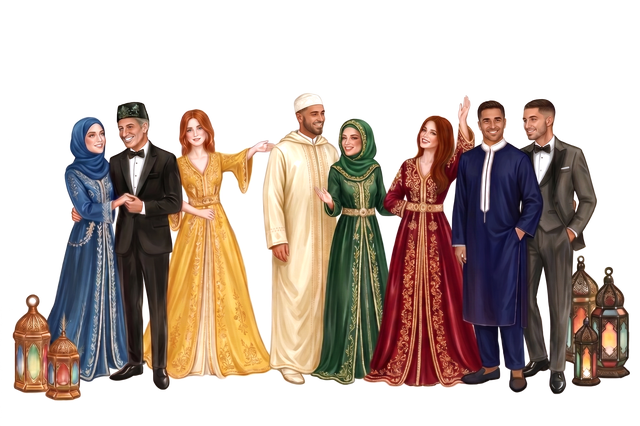
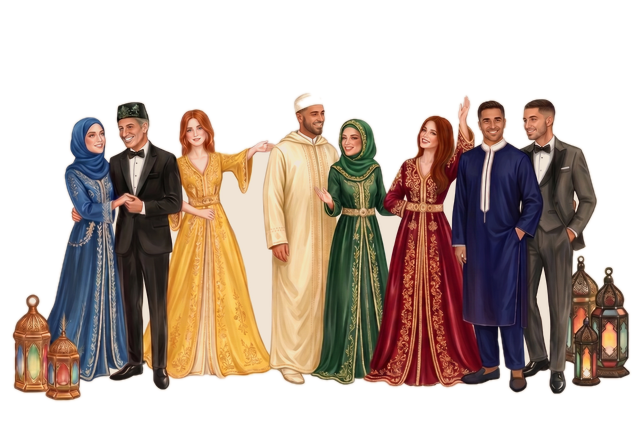
Fix attire image — flood-fill bg removal, no color unmix
The previous per-channel unmix recipe is correct for dark ink on
cream paper (the schedule thumbs) but pushes light skin tones and
cream-adjacent fabrics into radioactive orange on this full-color
illustration — most visible against the night background.

Reprocessed using a border-seeded flood fill that only turns cream
pixels transparent if they are connected to the image edge, leaving
all interior colors untouched. Alpha blurred 1px for soft edges.

Also dropped the brightness(1.04) boost from the night filter since
it is no longer needed — the illustration holds its own against the
dark sky now that skin tones are intact.

diff --git a/index.html b/index.html
@@ -640,9 +640,7 @@ html[data-theme="night"] .schedule-thumb {
   transition: filter 800ms;
 }
 html[data-theme="night"] .attire-img {
-  filter:
-    drop-shadow(0 10px 24px color-mix(in srgb, var(--gold) 30%, transparent))
-    brightness(1.04);
+  filter: drop-shadow(0 10px 24px color-mix(in srgb, var(--gold) 30%, transparent));
 }
 .detail-card .map-link {
   display: inline-block;
